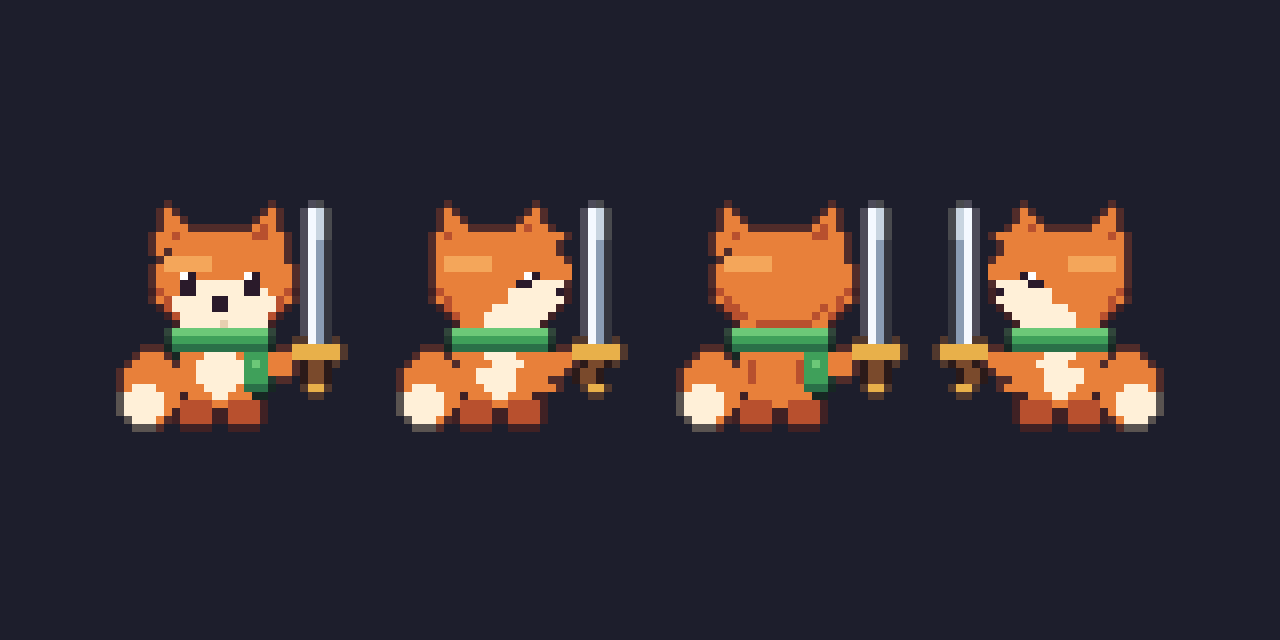
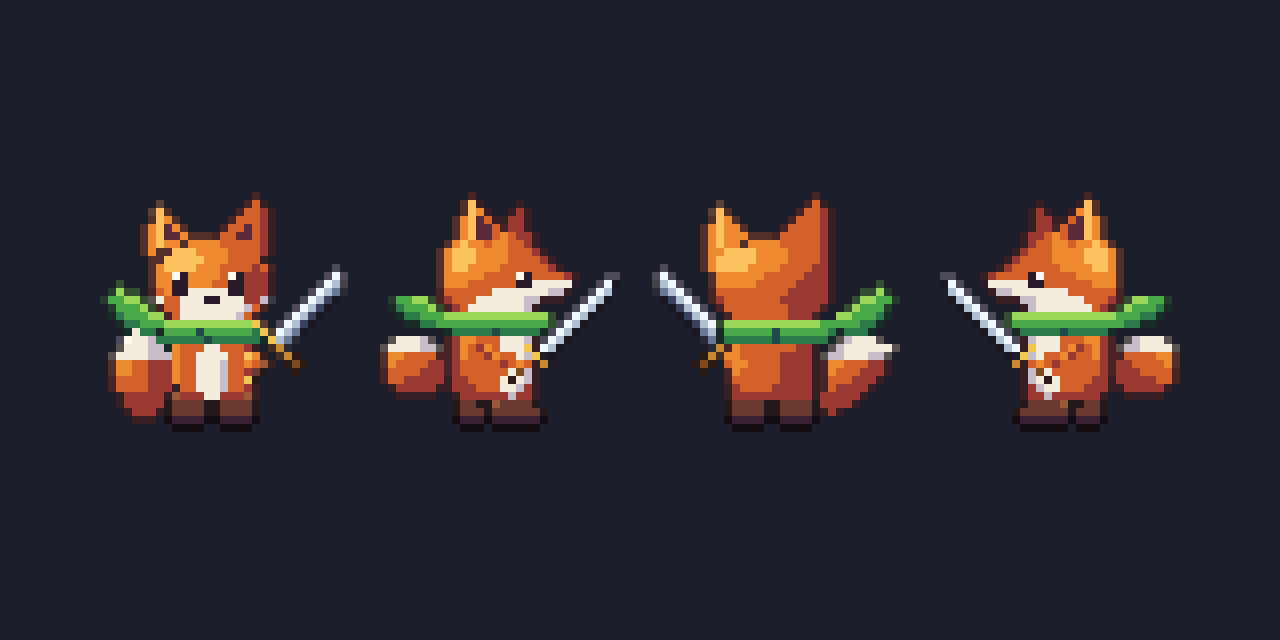
README gallery redrawn with Claude Opus: fox walking in four directions, wizard, examples, haunted house, hero

Changed region(s): [[0.0625, 0.3125, 0.9375, 0.6875]]

diff --git a/README.md b/README.md
@@ -14,9 +14,9 @@ and frames, one Ctrl+Z away. Or connect any [MCP](https://modelcontextprotocol.i
 ![Node 20+](https://img.shields.io/badge/node-20%2B-339933)
 ![Status: actively developed](https://img.shields.io/badge/status-actively%20developed-brightgreen)
 
-<img src="docs/images/hero.png" alt="The Aseprite MCP window inside Aseprite: the request 'an open treasure chest overflowing with gold coins' and the 32x32 chest it drew in 11 seconds" width="860">
+<img src="docs/images/hero.png" alt="The Aseprite MCP window inside Aseprite: the request 'an open treasure chest overflowing with gold coins' and the 32x32 chest Claude Opus drew from it" width="860">
 
-<sub>A real run: one Generate click, 11 seconds, a 32×32 sprite on its own layer.</sub>
+<sub>A real run: one Generate click, Claude Opus, under a minute, a 32×32 sprite on its own layer.</sub>
 
 [Gallery](#gallery) · [Features](#features) · [Install](#install) · [Workflows](#workflows) ·
 [Tools](#tools) · [How it works](#how-it-works) · [Roadmap](#roadmap) · [License](#license)
@@ -40,8 +40,8 @@ makes is ordinary Aseprite content you keep editing — and every AI edit is a s
 
 ## Gallery
 
-Everything below was drawn inside Aseprite by Claude through this extension: no image model, no
-post-processing, just layers and frames.
+Everything below was drawn inside Aseprite by Claude (mostly Opus) through this extension: no image
+model, no post-processing, just layers and frames.
 
 <table>
 <tr>
@@ -52,7 +52,7 @@ turned into 4 facings (the left side is mirrored from the right), then walking i
 </td>
 <td align="center" width="38%">
 <img src="docs/images/wizard-walk.gif" alt="A wizard walking" width="70%"><br>
-<sub><b>Style reference + Animate.</b> The wizard was asked to match the knight's style, then
+<sub><b>Style reference + Animate.</b> The wizard was asked to match the fox's style, then
 given a walk cycle.</sub>
 </td>
 </tr>
@@ -81,9 +81,9 @@ given a walk cycle.</sub>
 </p>
 
 <p align="center">
-  <img src="docs/images/showcase.png" alt="A knight in four directions, a wizard in the knight's style and a glowing mushroom" width="860"><br>
-  <sub>A knight turned into four facings, a wizard drawn with the knight as style reference, and a
-  mushroom limited to the PICO-8 palette.</sub>
+  <img src="docs/images/showcase.png" alt="A fox in four directions, a wizard in the fox's style and a glowing mushroom" width="860"><br>
+  <sub>The fox turned into four facings, a wizard drawn with the fox as style reference, and a
+  mushroom limited to the PICO-8 palette and 6 colors.</sub>
 </p>
 
 <p align="center">
@@ -128,7 +128,8 @@ given a walk cycle.</sub>
 - **Pick power vs. speed**: model (Fable, Opus, Sonnet, Haiku, or another provider) and effort
   (Fast, Balanced, Smart, Max). The window shows each run's time, steps and cost.
 - **Fast**: pixels travel as raw bytes (a 256×256 canvas round-trips in milliseconds), and shapes are
-  drawn by small sandboxed scripts instead of pixel lists. Typical sprites take 10–30 seconds.
+  drawn by small sandboxed scripts instead of pixel lists. A sprite takes 10–30 seconds with Sonnet,
+  about a minute with Opus.
 - **Safe by design**: everything listens on `127.0.0.1` only, scripts run in a QuickJS sandbox, and
   the assistant's model gets only the Aseprite tools — no shell, no file browsing.
 
